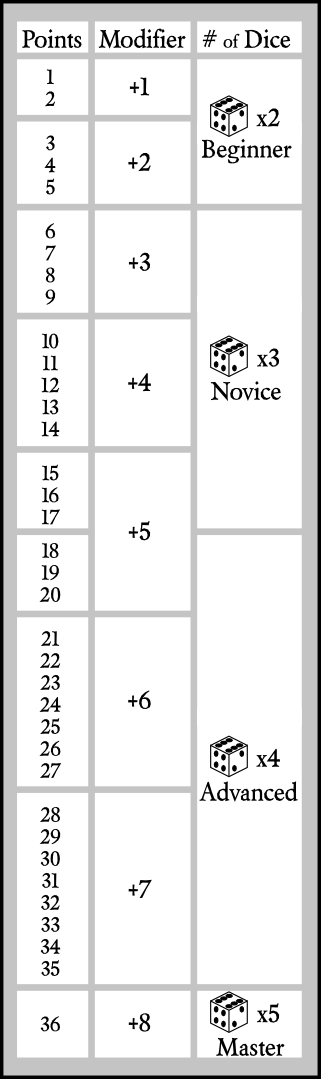
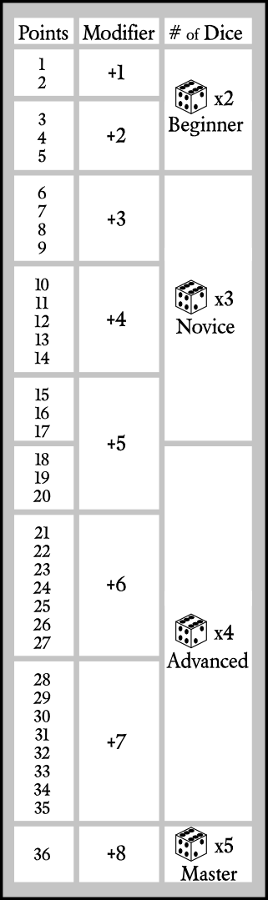
Resized modifier table; made pagebreak on tech levels

diff --git a/Character_Creation.md b/Character_Creation.md
@@ -7,7 +7,7 @@ Every character, whether it is the Player or NPC, has starting points. These are
 ### Starting Age ###
 Starting Age is used to help add variety to the group's characters, where physical growth and past experience are taken into account. A character's starting age adds depth and a sense of connection between the character, their past, and their place in the game world. The first step in character creation is to choose the character's starting age. Second step is to find the character's starting age on the Starting Age Table to determine how many dice to roll for each attribute.
 
-!(Starting Age in Years)[images/Starting_Age.png]
+![Starting Age in Years](images/Starting_Age.png)
 
 The third step is rolling your character's Primary Attributes. In general players roll five sets of dice according to the Starting Age Table and record each set in one of the primary attribute boxes. The primary attributes each have two boxes associated with them. The Accumulator box, and the Points box. The Accumulator box is used for storing adventure points during game play and is labeled Acc. *see Improving Your Character* for more information. The Points box, labeled Pts., is used to record the initial values for the character's primary attributes.
 

diff --git a/Tech_Levels.md b/Tech_Levels.md
@@ -1,3 +1,5 @@
+\pagebreak
+
 # Technology Levels #
 A character's technology level helps define level adjustments and target numbers when interacting with any technology, from a basic tool (like a club or lever) to a super computer on an inter-dimensional time machine. Use the list below to determine target numbers. A general rule is to add the tech level difference to the target number if the technology is at a lower level than the character's tech level and subtract from the target number if the technology is at a higher level.
 
